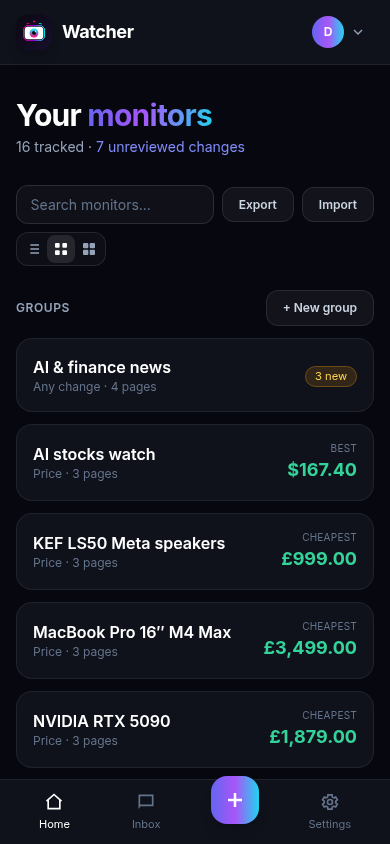
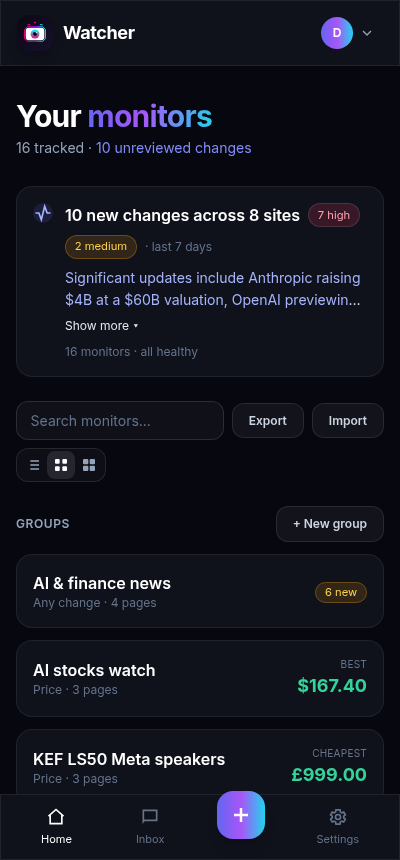
docs: expand README + refresh the screenshot gallery from the demo account
- Larger 8-shot gallery captured on the demo@watcher.local account: dashboard (with
  AI fleet summary), status page, group price comparison, combined price trend, monitor
  detail (history + change highlights + render trace), the clickable-links overlay, the
  triaged change inbox, and mobile. Refreshes the existing shots and adds links + status.
- Documents the newer features in the feature list: clickable hyperlinks overlaid on
  captures (history + zoom, desktop + mobile), and the per-step render trace / degraded
  flag / auto-skip.
- Fixes drifted config defaults in the env table (render timeout 45→60, screenshot
  height 8000→80000, megapixels 12→20) and notes the WebP-section pipeline.
- Makes scripts/seed_demo.py reproducible: ships the demo card thumbnails under
  scripts/demo_thumbs/ and resolves them relative to the script (they were missing).

diff --git a/scripts/seed_demo.py b/scripts/seed_demo.py
@@ -6,6 +6,7 @@ first. Run: .venv/bin/python scripts/seed_demo.py
 from __future__ import annotations
 
 import asyncio
+import os
 import random
 from datetime import datetime, timedelta, timezone
 
@@ -22,10 +23,14 @@ NOW = datetime.now(timezone.utc)
 THUMBS: dict[str, str] = {}
 
 
+_THUMB_DIR = os.path.join(os.path.dirname(__file__), "demo_thumbs")
+
+
 def _thumb(path: str) -> str:
     key = THUMBS.get(path)
     if key is None:
-        with open(path, "rb") as f:
+        full = path if os.path.isabs(path) else os.path.join(_THUMB_DIR, path)
+        with open(full, "rb") as f:
             key = blobs.put_bytes(f.read())
         THUMBS[path] = key
     return key

diff --git a/README.md b/README.md
@@ -25,12 +25,13 @@
 
 - **Smart detection (default)** — watches a page's **content (text) and appearance (visual) together**, and shows you both in a tabbed diff. Other modes: rendered **text**, **visual** (screenshot), single **element** (CSS/XPath), raw **HTML**, and **JSON**.
 - **Real browser rendering** — Chromium / Firefox / WebKit via Playwright, plus **[Camoufox](https://github.com/daijro/camoufox)** (stealth Firefox) for anti-bot targets. Desktop **and** mobile previews are captured each check.
-- **Sees changes in place** — dashboard cards show live screenshot thumbnails; the diff viewer overlays **changed regions in red** on the actual page, with an interactive **before/after slider**.
+- **Sees changes in place** — dashboard cards show live screenshot thumbnails; the diff viewer overlays **changed regions in red** on the actual page, with an interactive **before/after slider**, a scrubbable **history timeline**, and full-screen **zoom**.
+- **Clickable links on every capture** — captures are screenshots, but Watcher extracts each page's hyperlinks from the DOM and floats **real clickable anchors** over the image, so you can jump straight from a snapshot to the live page (history view **and** zoom, desktop **and** mobile, opens in a new tab) — even on links that sit under a change highlight.
 - **Group monitoring & price comparison** — group related pages (the **same product across retailers**) and watch them together: a side-by-side comparison with the **cheapest highlighted**, all prices on **one chart**, and a single group alert ("tell me when the cheapest drops below £X"). Groups aren't just for price — choose **back-in-stock**, **any-change**, or a **custom AI intent** that's combined with each page's own.
 - **AI triage & setup** *(optional)* — an OpenRouter-hosted model (or any OpenAI-compatible / **Ollama** endpoint) writes a one-line **headline**, classifies the change (price / stock / content / cosmetic …), and rates **importance** so low-value churn is muted. It also **builds monitors and groups from a plain-English goal** ("track this across these retailers and alert me under £250"), **suggests what to watch for**, and **summarises** recent activity.
 - **Value tracking & trends** — extract a numeric value (price, stock count, rating) each check, chart it over time, and fire **threshold alerts** ("tell me when it drops below £300").
 - **Notifications** — in-app **inbox**, **Web Push**, **HMAC-signed webhooks**, **Email/SMTP**, **Telegram**, **Discord**, and **ntfy** — with **hourly digests** and **quiet hours** so non-urgent changes batch up instead of pinging you at 3am.
-- **Reliability & observability** — per-check render/detect timeouts, retries, **auto-pause** after repeated failures (with a recovery alert), **adaptive intervals**, **auto-escalation to stealth Camoufox** when a render is bot-walled, optional **automatic AI re-login** when a login session expires (credential logins, no captcha), and a **status page** (per-monitor success rate, render times, AI budget, blob-store size).
+- **Reliability & observability** — per-check render/detect timeouts, retries, **auto-pause** after repeated failures (with a recovery alert), **adaptive intervals**, **auto-escalation to stealth Camoufox** when a render is bot-walled, optional **automatic AI re-login** when a login session expires (credential logins, no captcha), and a **status page** (per-monitor success rate, render times, AI budget, blob-store size). A **per-step render trace** flags *degraded* captures and **auto-skips steps that repeatedly time out** (with per-monitor toggles), so one slow step never sinks the whole render.
 - **Anti-bot & authenticated sites** — Camoufox stealth rendering with an automatic **site-root warm-up** that clears cold-deep-link walls (banks a clearance cookie, then retries with a same-site referer); blocked / challenge pages (DataDome, Cloudflare, PerimeterX, …) are detected and surfaced instead of silently failing; **paste Cookie Editor JSON** to reuse a logged-in session or clear a bot check; recorded **login flows**, **per-monitor proxies** and a health-checked **shared proxy pool**. Stored credentials and pasted session cookies are **encrypted at rest**.
 - **Noise control** — ignore selectors, ReDoS-safe regex ignore patterns, a per-monitor minimum-change threshold, **and a global visual noise floor** that absorbs anti-aliasing, lazy-loaded images, and carousels so trivial pixel churn never alerts you.
 - **Accounts, 2FA & admin** — multi-user with self-service **profile / password** changes and **TOTP two-factor auth** (authenticator app), plus an **admin panel** to create/manage users, toggle self-service signup, and **require 2FA** for everyone.
@@ -40,15 +41,23 @@
 
 ## 📸 Screenshots
 
-| Dashboard — monitors & groups | Grouped price comparison |
+| Dashboard — monitors, groups & an AI fleet summary | Status — per-monitor health & resource use |
 |---|---|
-| ![Dashboard](docs/screenshots/dashboard.png) | ![Group price comparison](docs/screenshots/group-prices.png) |
+| ![Dashboard](docs/screenshots/dashboard.png) | ![Status page](docs/screenshots/status.png) |
 
-| Track trends across sources | AI-triaged change inbox |
+| Grouped price comparison (cheapest highlighted) | Combined price trend across sources |
 |---|---|
-| ![Combined price chart](docs/screenshots/group-trends.png) | ![Change inbox](docs/screenshots/inbox.png) |
+| ![Group price comparison](docs/screenshots/group-prices.png) | ![Combined price chart](docs/screenshots/group-trends.png) |
 
-<p align="center"><img alt="Mobile" src="docs/screenshots/mobile.png" width="300"></p>
+| Monitor detail — history, change highlights & render trace | Hyperlinks made clickable on the captured page |
+|---|---|
+| ![Monitor detail](docs/screenshots/detail.png) | ![Clickable links](docs/screenshots/links.png) |
+
+| AI-triaged change inbox | Fully responsive on mobile |
+|---|---|
+| ![Change inbox](docs/screenshots/inbox.png) | <img alt="Mobile" src="docs/screenshots/mobile.png" width="320"> |
+
+> The demo above is generated by [`scripts/seed_demo.py`](scripts/seed_demo.py) on a `demo@watcher.local` account — product price groups, an AI-news group, and a triaged inbox.
 
 ## 🚀 Quick start (Docker)
 
@@ -155,10 +164,10 @@ All settings are environment variables prefixed `WATCHER_` (see [`.env.example`]
 | `WATCHER_MIN_INTERVAL_SECONDS` | `900` | Floor on how often a monitor can check (15 min). |
 | `WATCHER_MIN_VISUAL_CHANGE` | `0.005` | Global **visual noise floor** (fraction of pixels). See below. |
 | `WATCHER_AUTO_PAUSE_AFTER_FAILURES` | `6` | Pause a monitor after this many consecutive failures (`0` disables). |
-| `WATCHER_RENDER_TIMEOUT_SECONDS` / `_DETECT_TIMEOUT_SECONDS` | `45` / `20` | Hard ceilings per render / per diff. |
+| `WATCHER_RENDER_TIMEOUT_SECONDS` / `_DETECT_TIMEOUT_SECONDS` | `60` / `20` | Hard ceilings per render / per diff. |
 | `WATCHER_MAX_RENDER_CONCURRENCY` / `_MAX_CAMOUFOX_CONCURRENCY` | `3` / `2` | Concurrent renders overall / for (RAM-heavy) Camoufox. |
-| `WATCHER_MAX_SCREENSHOT_HEIGHT_PX` | `8000` | Cap a full-page capture's height (CSS px) so a long page can't make a 100+ MP image. |
-| `WATCHER_MAX_SCREENSHOT_MEGAPIXELS` / `_WEBP_QUALITY` | `12` / `85` | Stored screenshots are downscaled to this budget and saved as **WebP** (≈ PNG/10–50 for documents; text stays readable). `0` keeps native PNG. |
+| `WATCHER_MAX_SCREENSHOT_HEIGHT_PX` | `80000` | Safety clip on a full-page capture's height (CSS px) so a pathological infinite-scroll page can't spike memory. Whole pages are sliced into readable WebP **sections** below this. |
+| `WATCHER_MAX_SCREENSHOT_MEGAPIXELS` / `_WEBP_QUALITY` | `20` / `85` | Each section is downscaled to this budget and saved as **WebP** (≈ PNG/10–50 for documents; text stays readable). `0` keeps native PNG. |
 | `WATCHER_MAX_DIFF_MEGAPIXELS` | `2` | Downscale screenshots before the (pure-Python) pixel diff — keeps it fast + under the detect timeout. |
 | `WATCHER_AUTO_RELOGIN_COOLDOWN_SECONDS` | `21600` | Wait after a failed automatic AI re-login before retrying (6 h). |
 | `WATCHER_VAPID_PUBLIC_KEY` / `_PRIVATE_KEY` | — | Enable Web Push. Generate with `pip install py-vapid && vapid --gen`. |
